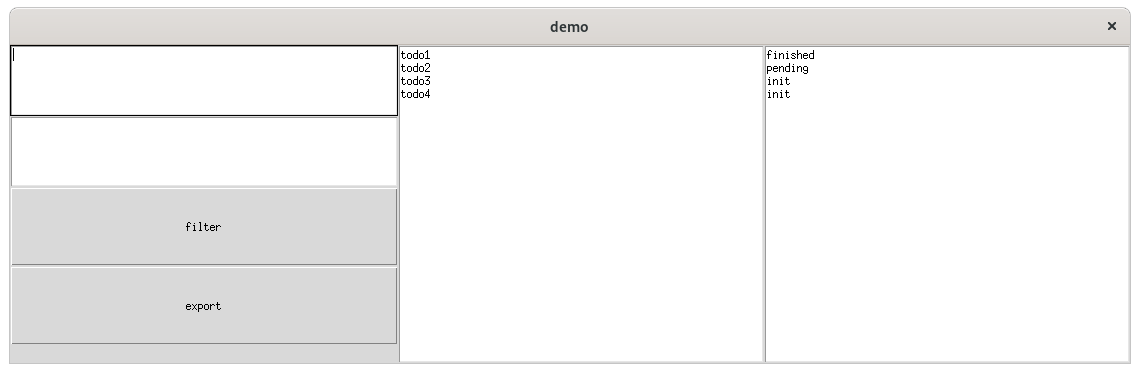
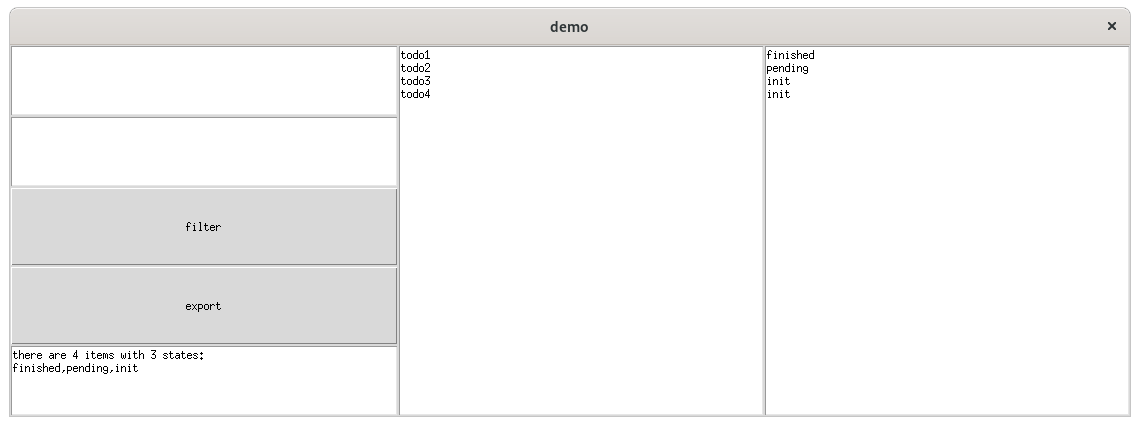
- comments for gui - add states in filtering summary - update screenshots for filtering

diff --git a/main.py b/main.py
@@ -10,19 +10,41 @@ import datetime
 
 import state_container
 
+# Base directory for the program.
 kBaseDir = os.path.dirname(os.path.realpath(__file__))
+# Directory for the projects.
 kProjDir = os.path.join(kBaseDir, 'projects')
+# Database filename in projects.
 kFilename = 'states.db'
+# Height of buttons and other components.
 kHeightButton = 5
+# Width of buttons and other components.
 kWidthButton = 60
 
 
 def get_db_path(name: str) -> str:
+    '''
+    Get the database file for one project.
+
+    Attributes:
+        name: project name.
+    Returns:
+        Absolute name for the database file for this project.
+    '''
     return os.path.join(kProjDir, name, kFilename)
 
 
 class TransitionProject(object):
+    '''
+    GUI for transitions.
+    '''
     def __init__(self, name: str):
+        '''
+        Constructor.
+
+        Attributes:
+            name: project name.
+        '''
         self._name = name
         self._path_db = get_db_path(name)
         self._data = dict()
@@ -31,11 +53,24 @@ class TransitionProject(object):
         self._init_gui()
 
     def _on_failure(self, cause: str = None):
+        '''
+        Show an error message.
+
+        Attributes:
+            cause: reason of failure.
+        '''
         tkinter.messagebox.showerror(
             '',
             cause if cause is not None else 'cannot execute this operation')
 
     def _show_items(self, selected: list, deselected: list = None):
+        '''
+        Show the input items or the splitted items for one operation (acceptable and conflicting).
+
+        Attributes:
+            selected: acceptable items for one operation.
+            deselected: conflicting items for one operation.
+        '''
         self._widgets['show_in'].config(state='normal')
         self._widgets['show_in'].delete('1.0', tkinter.END)
         self._widgets['show_in'].insert(
@@ -43,31 +78,41 @@ class TransitionProject(object):
             ','.join(self._data['items']) + '\n')
         if deselected is not None:
             self._widgets['show_in'].insert(
-                tkinter.END, f'{len(deselected)} items deselected\n' +
-                ','.join(deselected) + '\n')
+                tkinter.END,
+                f'{len(deselected)} items deselected (copy and input again)\n'
+                + ','.join(deselected) + '\n')
         self._widgets['show_in'].config(state='disabled')
 
     @classmethod
-    def _get_input_list(cls, widget: tkinter.Text):
+    def _get_input_list(cls, widget: tkinter.Text) -> tuple:
+        '''
+        Get a list of input objects (item-names or states) separated with ','.
+
+        Attributes:
+            widget: input text widget.
+        Returns:
+            An array of objects from input widget.
+        '''
         return tuple(i.strip() for i in widget.get('1.0', tkinter.END).replace(
             '\n', '').strip().split(',') if bool(i.strip()))
 
-    def _input(self) -> list:
+    def _input(self):
+        '''
+        Get the list of input item-names, save to internal data and show results.
+        '''
         elems = self._get_input_list(self._widgets['text_in'])
         if not bool(elems):
             self._on_failure('input is empty')
             return
-        done = set()
-        ret = list()
-        for elem in elems:
-            if elem not in done:
-                done.add(elem)
-                ret.append(elem)
-        self._data['items'] = tuple(ret)
-        self._data['full'] = tuple(ret)
+        elems = tuple(sorted(set(elems), key=elems.index))
+        self._data['items'] = elems[:]
+        self._data['full'] = elems[:]
         self._show_items(self._data['items'])
 
     def _cb_add(self):
+        '''
+        Callback function for addition.
+        '''
         if 'items' not in self._data:
             self._on_failure('input is empty')
             return
@@ -85,6 +130,10 @@ class TransitionProject(object):
             self._on_failure(str(ex))
 
     def _split_add(self):
+        '''
+        Callback function for splitting input items to accepted and conflicting.
+        Accepted items are available for operation. Conflicting items are shown for copying and reinput.
+        '''
         if 'full' not in self._data:
             self._on_failure('no data available')
             return
@@ -98,6 +147,9 @@ class TransitionProject(object):
         self._show_items(self._data['items'], left)
 
     def _cb_transit(self):
+        '''
+        Callback function for transition.
+        '''
         if 'items' not in self._data:
             self._on_failure('input is empty')
             return
@@ -116,6 +168,10 @@ class TransitionProject(object):
             self._on_failure(str(ex))
 
     def _split_transit(self):
+        '''
+        Callback function for splitting input items to accepted and conflicting.
+        Accepted items are available for operation. Conflicting items are shown for copying and reinput.
+        '''
         if 'full' not in self._data:
             self._on_failure('no data available')
             return
@@ -128,6 +184,9 @@ class TransitionProject(object):
         self._show_items(self._data['items'], left)
 
     def _cb_remove(self):
+        '''
+        Callback function for removal.
+        '''
         if 'items' not in self._data:
             self._on_failure('input is empty')
             return
@@ -139,6 +198,10 @@ class TransitionProject(object):
             self._on_failure(str(ex))
 
     def _split_remove(self):
+        '''
+        Callback function for splitting input items to accepted and conflicting.
+        Accepted items are available for operation. Conflicting items are shown for copying and reinput.
+        '''
         if 'full' not in self._data:
             self._on_failure('no data available')
             return
@@ -148,6 +211,10 @@ class TransitionProject(object):
         self._show_items(self._data['items'], left)
 
     def _backup_db(self):
+        '''
+        Callback function for backup database (db file only).
+        A dialog for file selection is opened, type in the name and save.
+        '''
         filename = tkinter.filedialog.asksaveasfilename(
             initialdir=os.path.dirname(self._path_db),
             initialfile=kFilename + '.backup')
@@ -155,6 +222,13 @@ class TransitionProject(object):
         shutil.copyfile(self._path_db, filename)
 
     def _export_db(self, states: list = None):
+        '''
+        Callback function for exporting the database for human and machine readable files.
+        One JSON and one CSV files will be generated with given path and filename, and corresponding extension.
+
+        Attributes:
+            states: if it is given, the given states will be exported; otherwise the states in database will.
+        '''
         default_name = str(datetime.datetime.now()).replace(' ', 'T').replace(
             ':', '-')
         filename = tkinter.filedialog.asksaveasfilename(
@@ -190,6 +264,10 @@ class TransitionProject(object):
                 writer.writerow({'name': name, 'state': state})
 
     def _filter(self):
+        '''
+        Callback function for filtering and displayment.
+        It can be used for viewing the states, filtering the states and exporting.
+        '''
         win_filter = tkinter.Tk()
         win_filter.title(self._name)
 
@@ -226,8 +304,8 @@ class TransitionProject(object):
                 text_display_states.insert(tkinter.END, '\n'.join(states))
                 text_summary.insert(
                     tkinter.END,
-                    f'there are {len(set(names))} items with {len(set(states))} states'
-                )
+                    f'there are {len(set(names))} items with {len(set(states))} states:\n'
+                    + ','.join(sorted(set(states), key=states.index)))
             else:
                 text_summary.insert(tkinter.END, f'there is no result')
             text_display_names.config(state='disabled')
@@ -272,6 +350,9 @@ class TransitionProject(object):
         frame_out.pack(side=tkinter.RIGHT, fill=tkinter.Y)
 
     def _replay(self):
+        '''
+        Callback function for replaying, it will generate another project with selected log files.
+        '''
         logs = tkinter.filedialog.askopenfilenames(
             title='select the log files for operations to replay',
             initialdir=kBaseDir,
@@ -286,6 +367,9 @@ class TransitionProject(object):
                                                     kFilename)).replay(logs)
 
     def _init_gui(self):
+        '''
+        Initialize the main panel for one project.
+        '''
         # gui preparation
         control = tkinter.Tk()
         control.title(self._name)
@@ -462,10 +546,22 @@ class TransitionProject(object):
 
 
 def start_project(name: str):
+    '''
+    Start one existing project.
+
+    Attributes:
+        name: project name.
+    '''
     TransitionProject(name)
 
 
-def get_project_list() -> list:
+def get_project_list() -> tuple:
+    '''
+    Get all created projects.
+
+    Returns:
+        The name of projects.
+    '''
     if not os.path.isdir(kProjDir):
         os.mkdir(kProjDir)
     return tuple(proj for proj in os.listdir(kProjDir)
@@ -473,6 +569,9 @@ def get_project_list() -> list:
 
 
 def start_new_project(_):
+    '''
+    Creat a new project.
+    '''
     name = new_project.get('1.0', tkinter.END).strip()
     new_project.delete('1.0', tkinter.END)
     assert bool(name), 'empty name'
